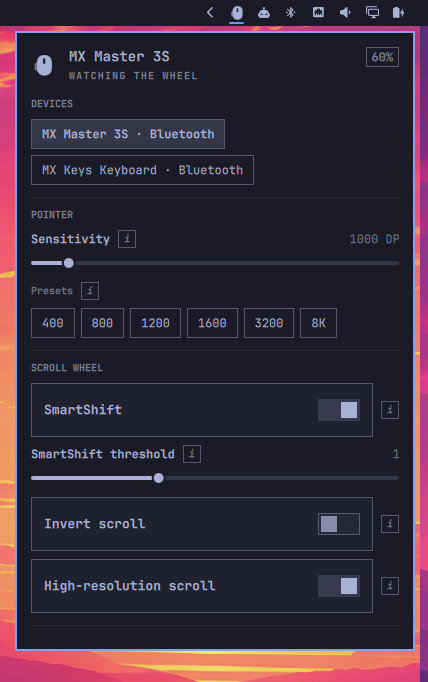
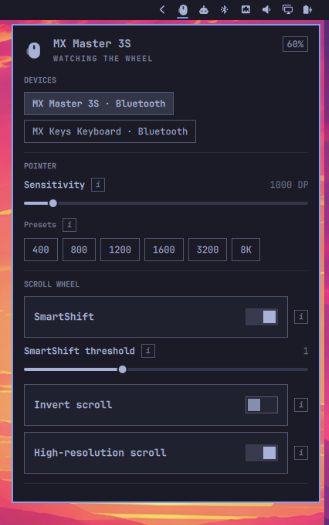
Use the tighter live panel screenshot in the README
Replace preview.png with the cropped capture of MX Control only.

diff --git a/README.md b/README.md
@@ -7,7 +7,7 @@ A first-class Quattro plugin for Logitech MX mice and keyboards — MX Master, A
 It lives inside the long-running `omarchy-shell` process. It never starts a second Quickshell instance.
 
 <p align="center">
-  <img src="preview.png" alt="MX Control panel on Omarchy: MX Master 3S over Bluetooth, 1000 DPI with 8K preset, SmartShift, invert scroll, and high-resolution scroll" width="420">
+  <img src="preview.png" alt="MX Control panel on Omarchy: MX Master 3S over Bluetooth, 1000 DPI with 8K preset, SmartShift, invert scroll, and high-resolution scroll" width="329">
 </p>
 
 ## Install
